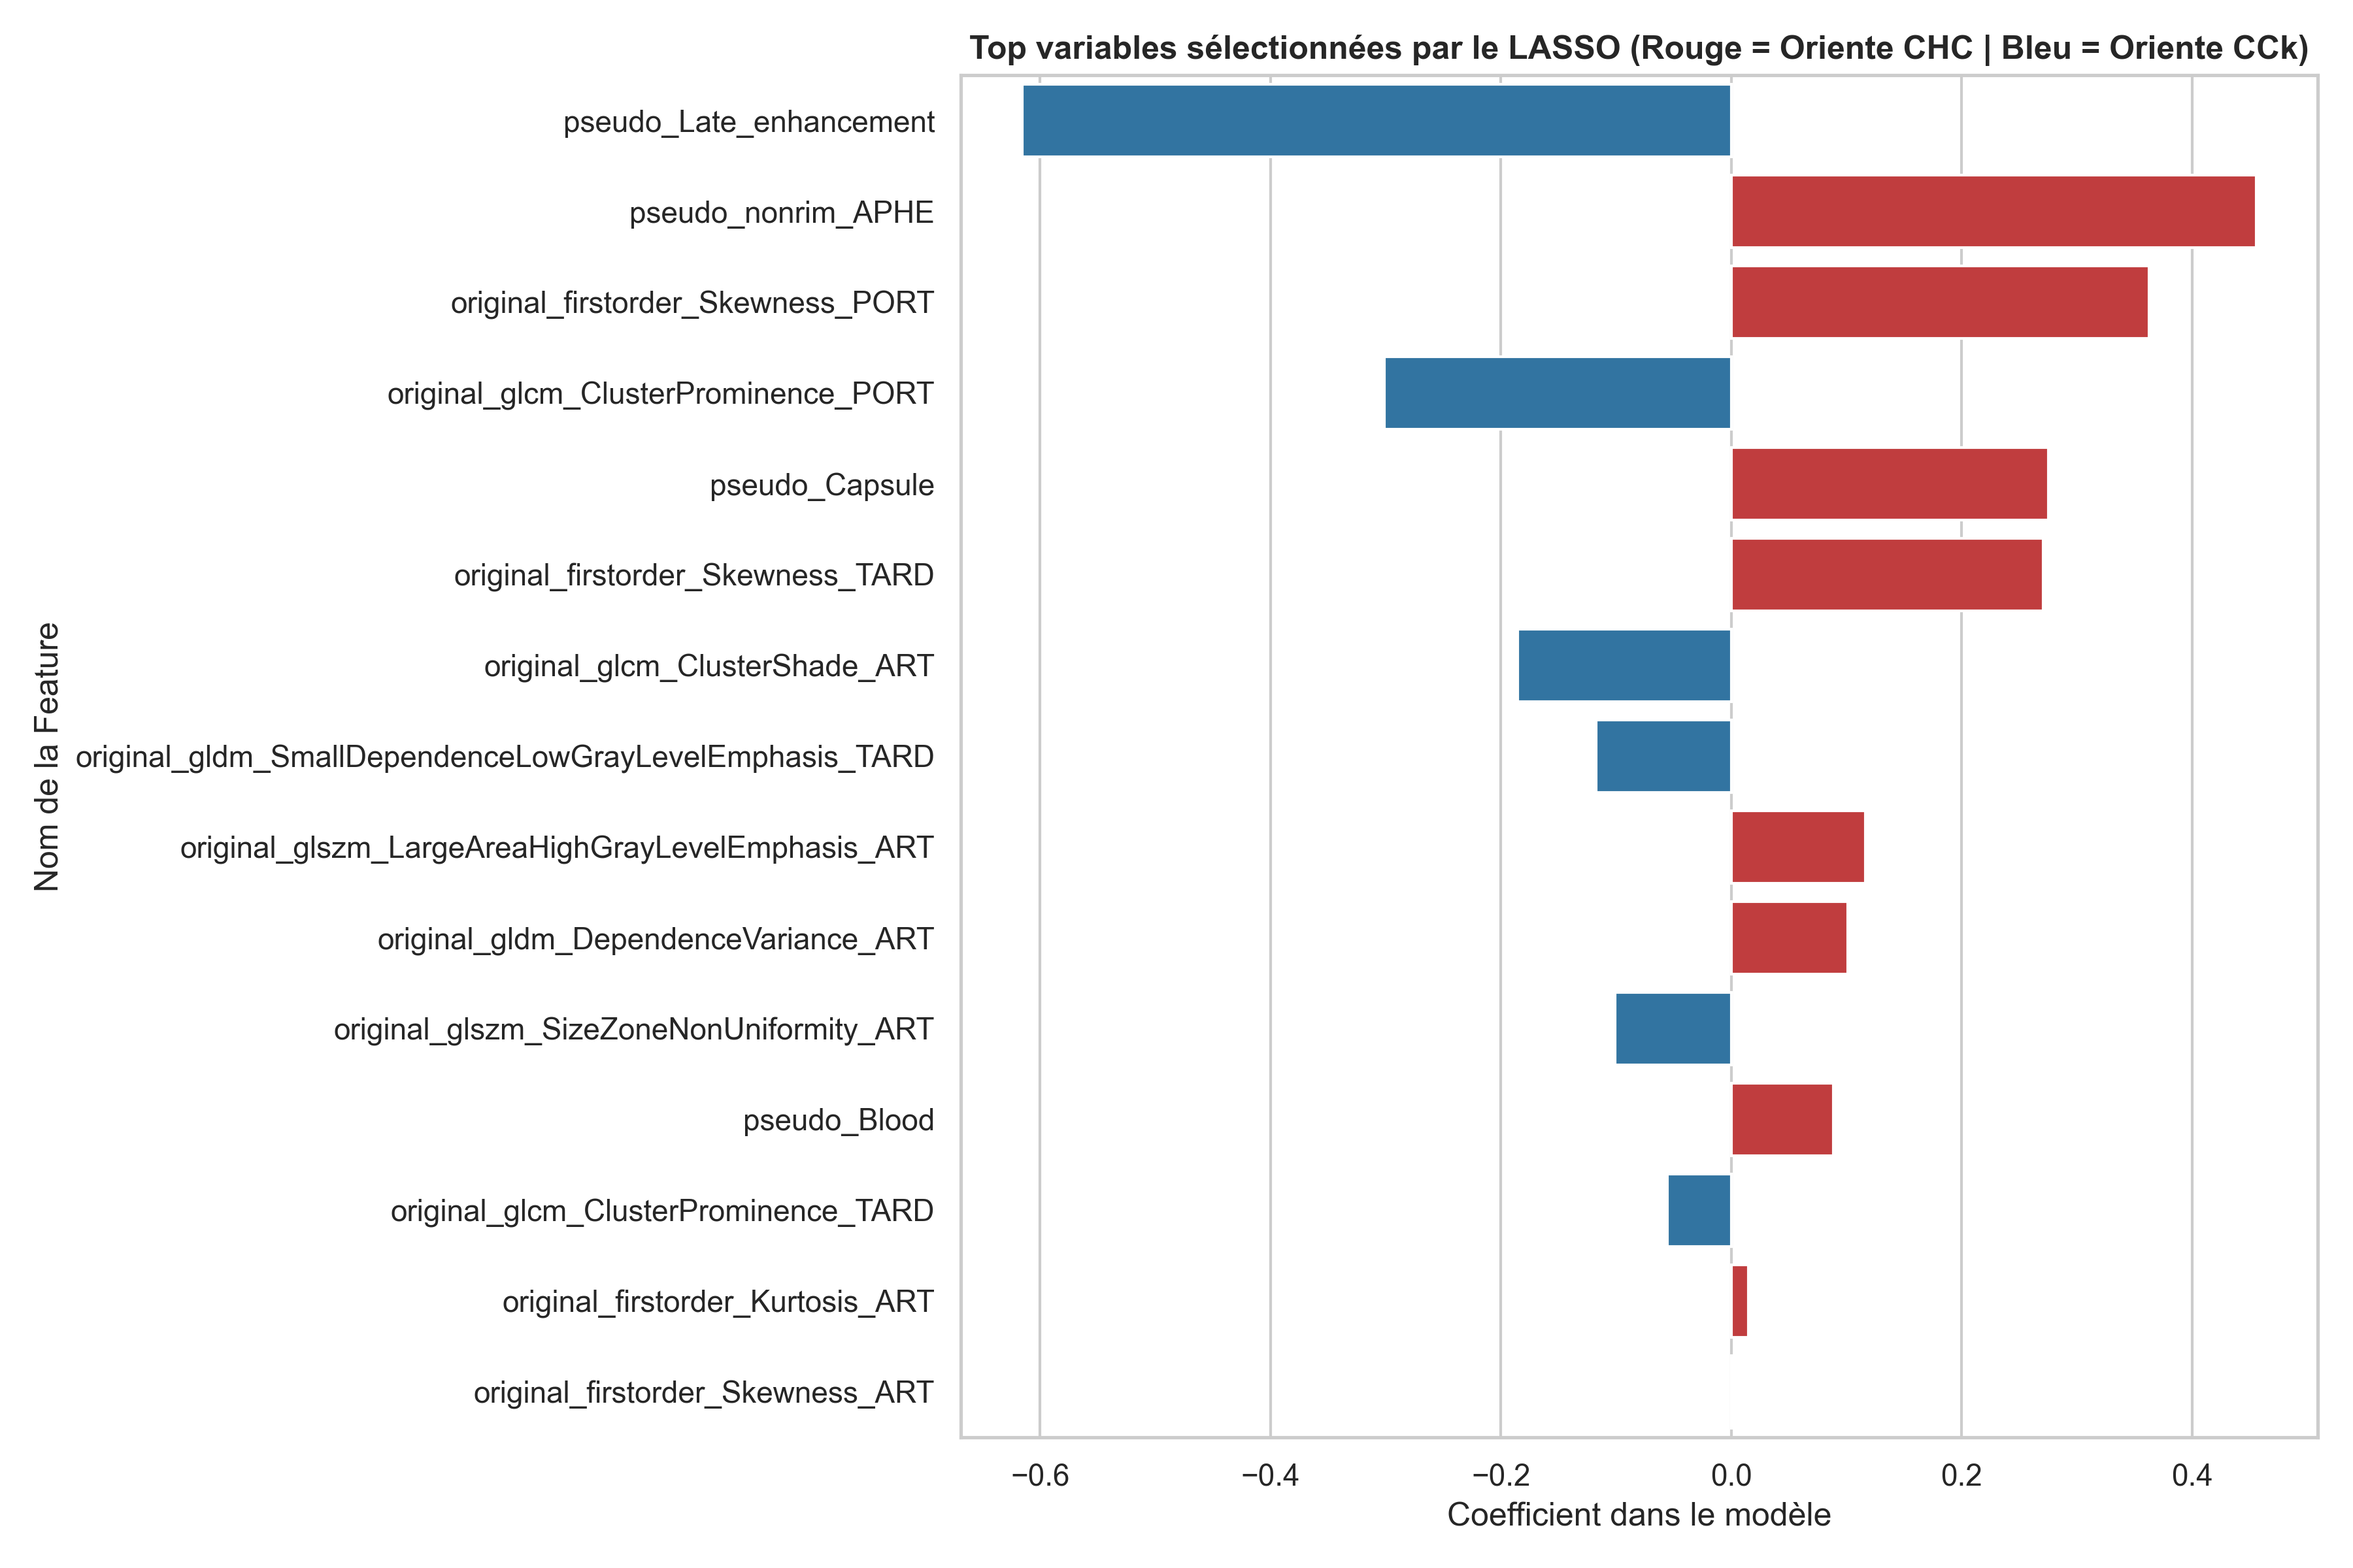
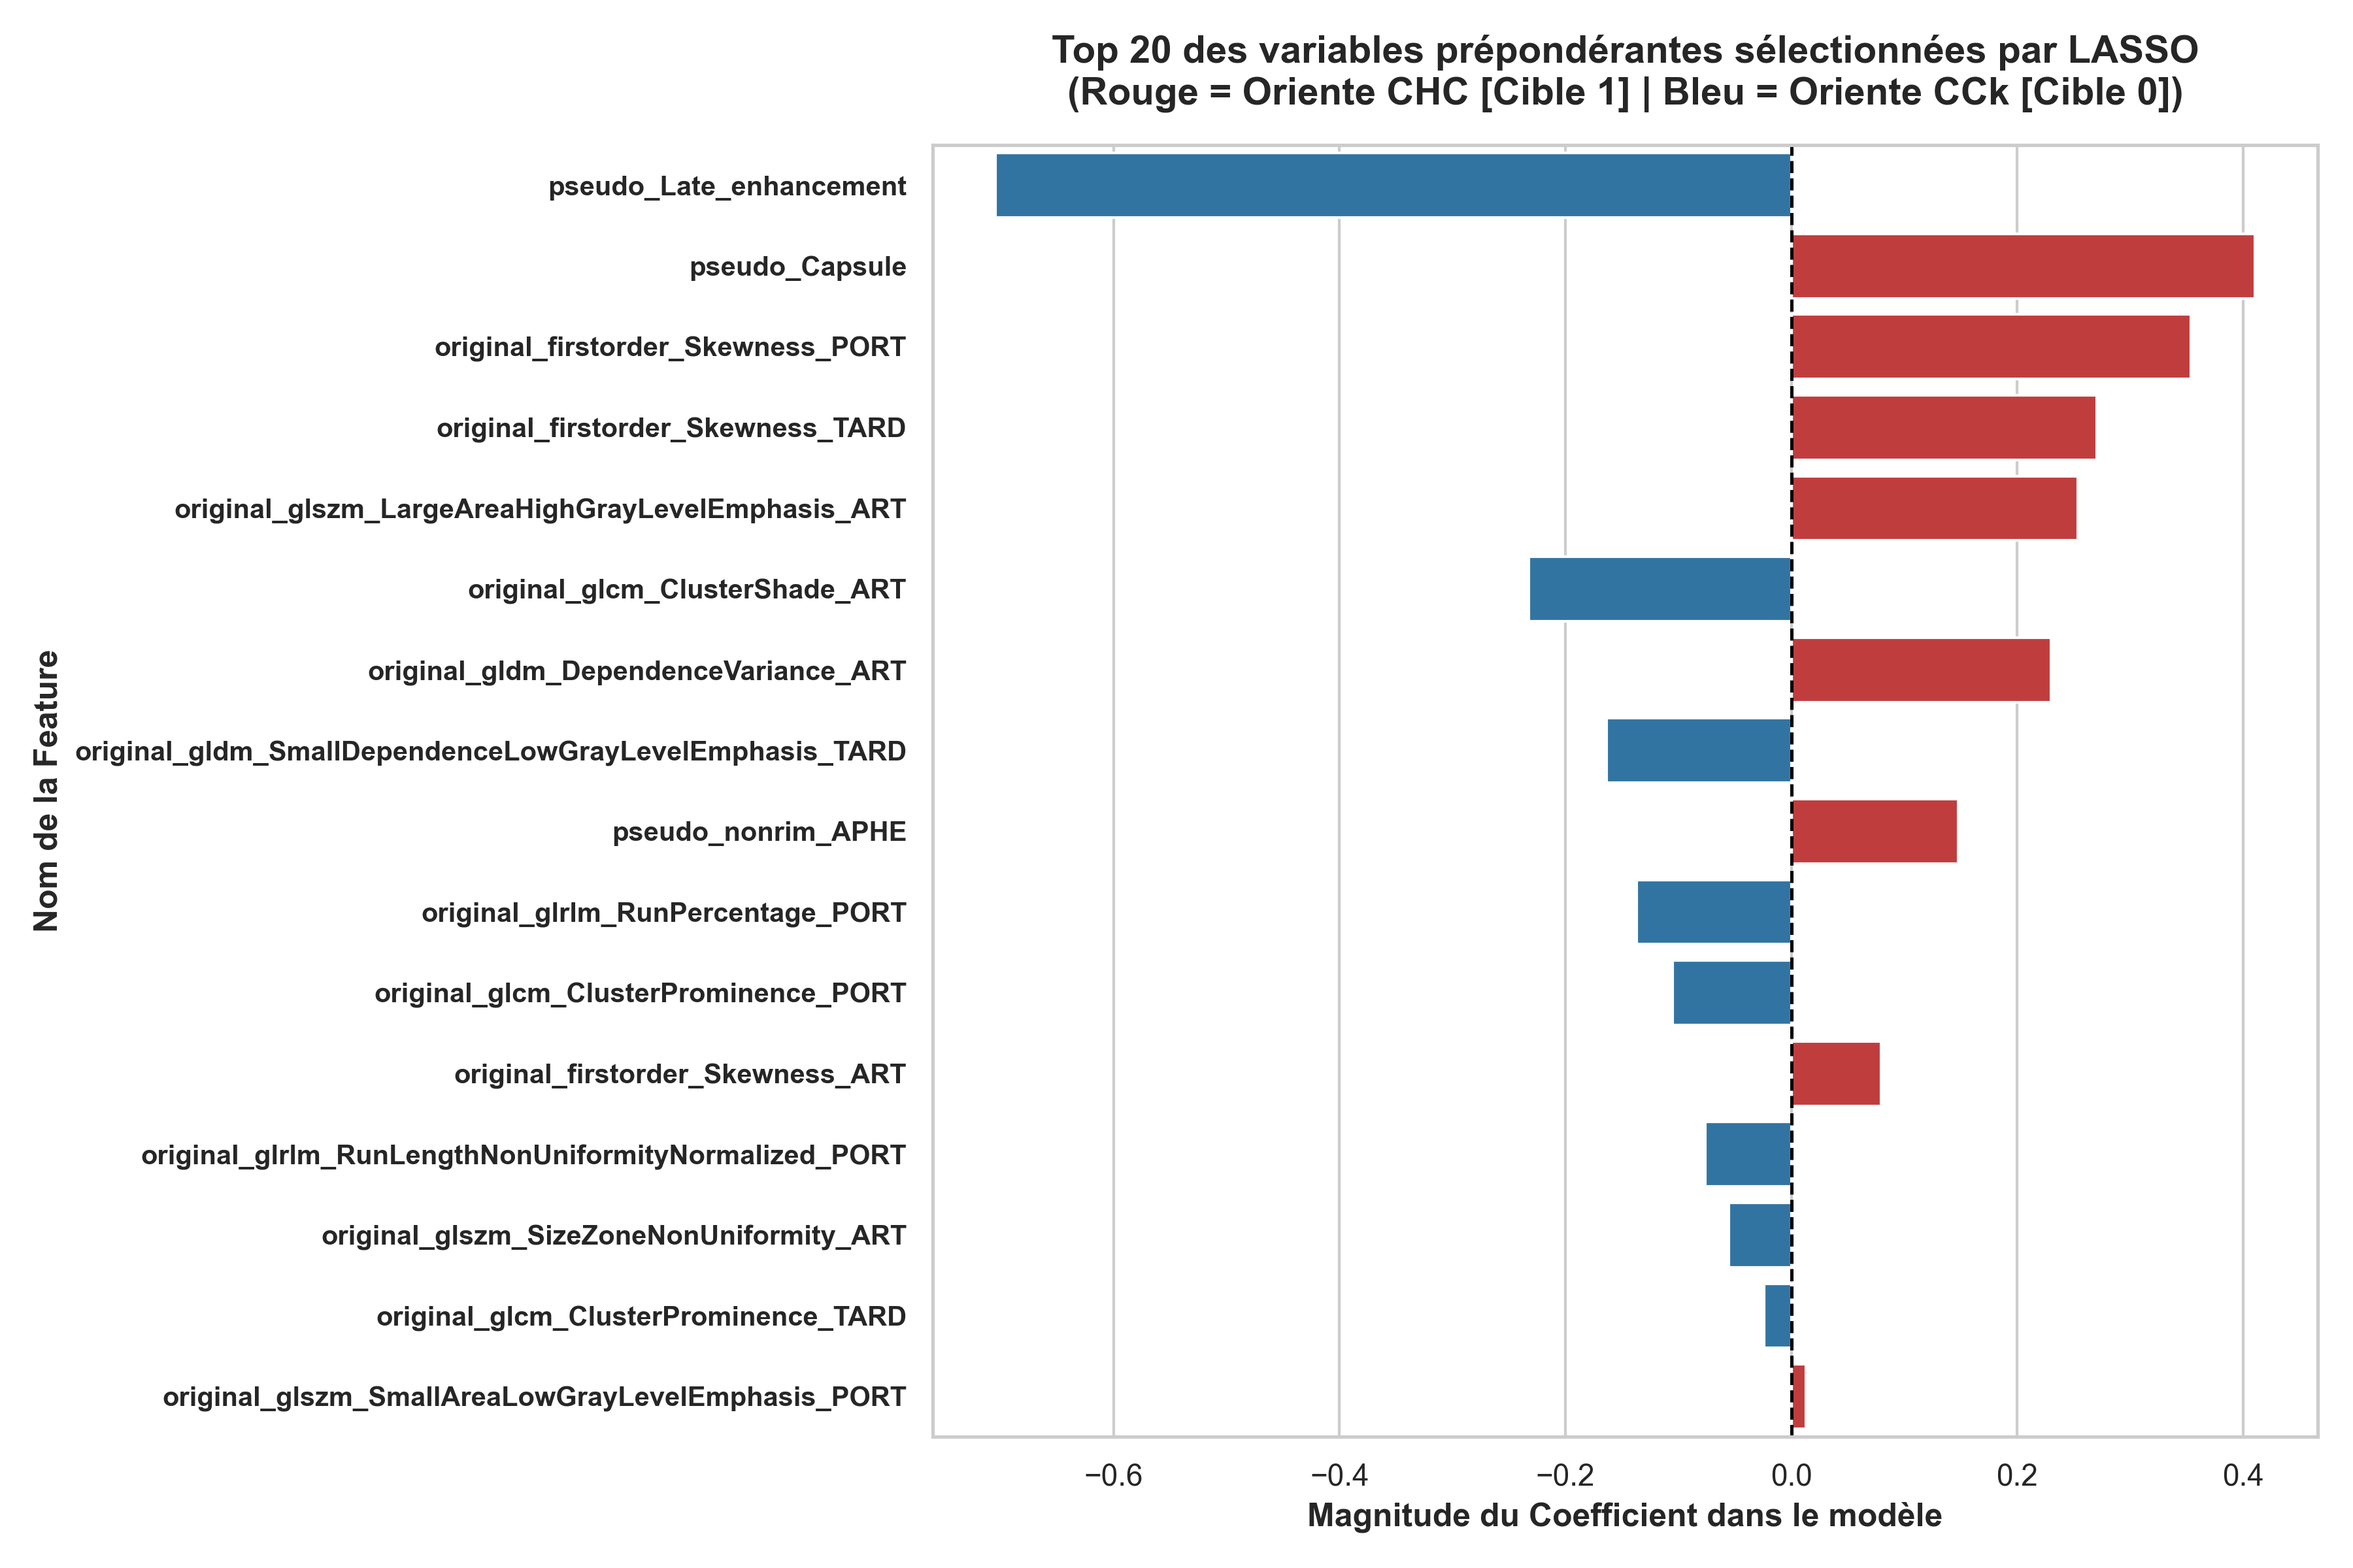
Exécution des modèles et rangement des plots

diff --git a/poids_correlation_lasso.py b/poids_correlation_lasso.py
@@ -187,7 +187,7 @@ def main():
     )
 
     # -------------------------------------------------------------------------
-    # 6. ENTRAÎNEMENT DE LA RÉGRESSION LOGISTIQUE LASSO (L1)
+    # 6. ENTRAÎNEMENT DE LA RÉGRESSION LOGISTIQUE LASSO (C=0.4)
     # -------------------------------------------------------------------------
     print("\nEntraînement de la régression logistique pénalisée LASSO (C=0.4)...")
     lasso_clf = LogisticRegression(penalty='l1', solver='liblinear', C=0.4, random_state=42, max_iter=2000)
@@ -204,7 +204,7 @@ def main():
     print(confusion_matrix(y_final, y_pred))
 
     # -------------------------------------------------------------------------
-    # 7. SÉLECTION DES SURVIVANTS DU LASSO & DESIGN DES GRAPHES
+    # 7. SÉLECTION ET VISUALISATION DES FEATURES PRÉPONDÉRANTES (SURVIVANTS LASSO)
     # -------------------------------------------------------------------------
     coefs = lasso_clf.coef_[0]
     df_coefficients = pd.DataFrame({
@@ -213,6 +213,7 @@ def main():
         'Abs_Coefficient': np.abs(coefs)
     })
 
+    # Tri strict par valeur absolue décroissante pour capturer la prépondérance brute
     df_survivants = df_coefficients[df_coefficients['Coefficient'] != 0].sort_values(by='Abs_Coefficient', ascending=False)
     print(f"\n[LASSO] Nombre de variables sélectionnées (survivantes) : {len(df_survivants)} / {X_competition.shape[1]}")
     print(df_survivants[['Feature', 'Coefficient']])
@@ -223,32 +224,40 @@ def main():
     df_survivants_csv['Abs_Coefficient'] = df_survivants_csv['Abs_Coefficient'].astype(str).str.replace('.', ',')
     df_survivants_csv.to_csv("data/survivants_lasso_competition.csv", sep=';', index=False)
 
-    # Graphique standard : Histogramme horizontal des coefficients LASSO survivants
+    # Génération du graphique des features prépondérantes (Top 20 maximum)
     if not df_survivants.empty:
+        df_plot = df_survivants.head(20).copy()
+        
         plt.figure(figsize=(12, 8))
         sns.set_theme(style="whitegrid")
         
-        # Coloration sémantique (Négatif = Oriente CCk [Bleu] | Positif = Oriente CHC [Rouge])
-        df_survivants['Color_Group'] = df_survivants['Coefficient'].apply(lambda x: '#d62728' if x >= 0 else '#1f77b4')
+        # Code couleur : Rouge = Oriente CHC (positif) | Bleu = Oriente CCK (négatif)
+        df_plot['Color_Group'] = df_plot['Coefficient'].apply(lambda x: '#d62728' if x >= 0 else '#1f77b4')
         
+        # Utilisation de l'importance brute (valeur absolue) ou coefficient signé trié par magnitude
         sns.barplot(
-            data=df_survivants.head(20), 
+            data=df_plot, 
             x='Coefficient', 
             y='Feature', 
-            palette=df_survivants['Color_Group'].head(20).tolist(),
+            palette=df_plot['Color_Group'].tolist(),
             hue='Feature',
             legend=False
         )
-        plt.title("Top variables sélectionnées par le LASSO (Rouge = Oriente CHC | Bleu = Oriente CCk)", fontsize=12, fontweight='bold')
-        plt.xlabel("Coefficient dans le modèle")
-        plt.ylabel("Nom de la Feature")
+        
+        plt.axvline(x=0, color='black', linestyle='--', linewidth=1.2)
+        plt.title("Top 20 des variables prépondérantes sélectionnées par LASSO\n(Rouge = Oriente CHC [Cible 1] | Bleu = Oriente CCk [Cible 0])", fontsize=14, fontweight='bold', pad=15)
+        plt.xlabel("Magnitude du Coefficient dans le modèle", fontsize=12, fontweight='bold')
+        plt.ylabel("Nom de la Feature", fontsize=12, fontweight='bold')
+        plt.xticks(fontsize=11)
+        plt.yticks(fontsize=10, fontweight='bold')
         plt.tight_layout()
+        
         plt.savefig(f'{output_plot_dir}/competition_lasso_survivants.png', dpi=300)
         plt.close()
-        print(f"[OK] Graphique de la compétition enregistré dans {output_plot_dir}/")
+        print(f"[OK] Graphique des features prépondérantes enregistré : {output_plot_dir}/competition_lasso_survivants.png")
 
     # -------------------------------------------------------------------------
-    # 8. AJOUT : ANALYSE EN COMPOSANTES PRINCIPALES (ACP / PCA)
+    # 8. ANALYSE EN COMPOSANTES PRINCIPALES (ACP / PCA)
     # -------------------------------------------------------------------------
     print("\nCalcul et génération des figures de l'ACP...")
     pca = PCA(n_components=2)
@@ -259,7 +268,6 @@ def main():
         'type': y_final.map({0: 'CCk', 1: 'CHC'})
     })
     
-    # Graphique PCA 1 : Scatter plot des composantes
     plt.figure(figsize=(8, 6))
     sns.scatterplot(data=pca_df, x='PC1', y='PC2', hue='type', palette='Set1', s=60, alpha=0.7)
     plt.title('PCA of Competition Space (CCk vs CHC)')
@@ -269,7 +277,6 @@ def main():
     plt.savefig(f'{output_plot_dir}/pca_chc_cck_pseudo_features.png', dpi=300)
     plt.close()
 
-    # Graphique PCA 2 : Frontière de décision sur espace ACP
     logreg_pca = LogisticRegression(random_state=42, max_iter=1000)
     logreg_pca.fit(X_pca, y_final)
     x_min, x_max = X_pca[:, 0].min() - 1, X_pca[:, 0].max() + 1
@@ -288,11 +295,10 @@ def main():
     plt.savefig(f'{output_plot_dir}/pca_chc_cck_decision_boundary.png', dpi=300)
     plt.close()
 
-    # Graphique PCA 3 : Scree plot de la variance expliquée
     pca_full = PCA().fit(X_competition_scaled)
     explained_var = pca_full.explained_variance_ratio_
     plt.figure(figsize=(8, 5))
-    components = range(1, min(len(explained_var) + 1, 30))  # Limité aux 30 premières pour la lisibilité
+    components = range(1, min(len(explained_var) + 1, 30))
     plt.bar(components, explained_var[:29], alpha=0.7, color='steelblue')
     plt.step(components, np.cumsum(explained_var[:29]), where='mid', label='Cumulative variance', color='orange', linewidth=2)
     plt.axhline(y=0.95, color='red', linestyle='--', label='95% threshold')

diff --git a/validation.py b/validation.py
@@ -29,7 +29,6 @@ def evaluer_modele_kfold(
     np.random.seed(random_seed)
     
     if isinstance(col_group, list):
-
         groups = data[col_group].astype(str).agg('_'.join, axis=1).to_numpy()
     else:
         groups = data[col_group].to_numpy()
@@ -96,16 +95,7 @@ def evaluer_modele_kfold(
     fold_metrics = {'accuracy': [], 'auc': [], 'f1': [], 'mcc': []}
     y_vrais_total, y_pred_total, y_prob_total = [], [], []
     
-    repartition_data = []
-
     for fold, (train_idx, test_idx) in enumerate(sgkf.split(X, y=strat_array, groups=groups), 1):
-        
-        # On calcule les répartitions pour chaque variable stratifiée séparément
-        for col in df_temp.columns:
-            valeurs_uniques, comptes = np.unique(df_temp[col].iloc[test_idx], return_counts=True)
-            for val, count in zip(valeurs_uniques, comptes):
-                repartition_data.append({'Fold': f"Fold {fold}", 'Variable': col, 'Classe': val, 'Patients': count})
-        
         X_train, X_test = X.iloc[train_idx], X.iloc[test_idx]
         y_train, y_test = y[train_idx], y[test_idx] 
         
@@ -140,47 +130,31 @@ def evaluer_modele_kfold(
     print(f"MCC      : {np.mean(fold_metrics['mcc']):.3f} (± {np.std(fold_metrics['mcc']):.3f})")
     print("="*50)
     
-    df_repartition = pd.DataFrame(repartition_data)
-    variables = df_temp.columns.tolist()
-    n_vars = len(variables)
-
-    # Création des sous-graphiques : un par variable + 1 pour la matrice de confusion
-    fig, axes = plt.subplots(1, n_vars + 1, figsize=(4 * (n_vars + 1), 5))
-    
-    # Sécurisation si jamais 1 seule variable
-    if n_vars + 1 == 1:
-        axes = [axes]
-
-    # Définition de palettes de couleurs séquentielles (ton sur ton) pour chaque graphe
-    base_colors = ['Blues', 'Oranges', 'Greens', 'Purples', 'Reds']
-
-    for i, var in enumerate(variables):
-        df_var = df_repartition[df_repartition['Variable'] == var]
-        df_pivot = df_var.pivot(index='Fold', columns='Classe', values='Patients').fillna(0)
-        df_pourcentages = df_pivot.div(df_pivot.sum(axis=1), axis=0) * 100
-        
-        # On génère des couleurs plus intenses en évitant les premières (qui sont presque blanches)
-        n_classes = len(df_pourcentages.columns)
-        # On demande 2 couleurs supplémentaires et on sélectionne les plus intenses à la fin
-        palette = sns.color_palette(base_colors[i % len(base_colors)], n_colors=n_classes + 2)[2:]
-        
-        df_pourcentages.plot(kind='bar', stacked=True, ax=axes[i], color=palette, edgecolor='white')
-        axes[i].set_title(f"Proportions - {var}", fontsize=11, fontweight='bold')
-        if i == 0:
-            axes[i].set_ylabel("Proportion (%)")
-        else:
-            axes[i].set_ylabel("")
-        axes[i].set_xlabel("")
-        axes[i].legend(bbox_to_anchor=(1.05, 1), loc='upper left', fontsize='small')
-        axes[i].tick_params(axis='x', rotation=45)
-
-    ax_cm = axes[-1]
+    # --- CRÉATION DE LA FIGURE UNIQUEMENT AVEC LA MATRICE DE CONFUSION ---
+    plt.figure(figsize=(6, 5))
     cm_total = confusion_matrix(y_vrais_total, y_pred_total)
-    sns.heatmap(cm_total, annot=True, fmt='d', cmap='Blues', ax=ax_cm, 
-                xticklabels=noms_classes, yticklabels=noms_classes)
-    ax_cm.set_title(f"Confusion Cumulée ({n_splits} Folds)", fontsize=11, fontweight='bold')
-    ax_cm.set_ylabel('Vérité Terrain')
-    ax_cm.set_xlabel('Prédiction Modèle')
+    
+    # Configuration de la heatmap en taille 48 de base
+    ax_cm = sns.heatmap(
+        cm_total, 
+        annot=True, 
+        fmt='d', 
+        cmap='Blues', 
+        xticklabels=noms_classes, 
+        yticklabels=noms_classes,
+        cbar=False,
+        annot_kws={"size": 28, "weight": "bold"}
+    )
+    
+    # Modification de la taille et de la graisse SANS écraser le choix automatique de couleur de Seaborn
+    for text in ax_cm.texts:
+        text.set_size(28)          
+        text.set_weight('bold')    
+        
+    plt.title(f"Confusion Cumulée ({n_splits} Folds)", fontsize=16, fontweight='bold', pad=15)
+    plt.ylabel('Vérité Terrain', fontsize=12, fontweight='bold')
+    plt.xlabel('Prédiction Modèle', fontsize=12, fontweight='bold')
+    plt.tick_params(axis='both', which='major', labelsize=18)
     
     plt.tight_layout()
     
@@ -196,9 +170,6 @@ def evaluer_modele_kfold(
     print(f"\n📈 Graphique sauvegardé sous : {filename}")
     # -------------------------------
     
-    if show_plots:
-        plt.show()
-    else:
-        plt.close()
+    plt.show()
     
     return y_vrais_total, y_prob_total, fold_metrics

diff --git a/poids_optimisés_lasso.py b/poids_optimisés_lasso.py
@@ -190,7 +190,7 @@ def main():
     # 6. ENTRAÎNEMENT DE LA RÉGRESSION LOGISTIQUE LASSO (L1)
     # -------------------------------------------------------------------------
     print("\nEntraînement de la régression logistique pénalisée LASSO (C=0.4)...")
-    lasso_clf = LogisticRegression(penalty='l1', solver='liblinear', C=0.4, random_state=42, max_iter=2000)
+    lasso_clf = LogisticRegression(penalty='l1', solver='liblinear', C=0.5, random_state=42, max_iter=2000)
     lasso_clf.fit(X_competition_scaled, y_final)
 
     y_pred = lasso_clf.predict(X_competition_scaled)
